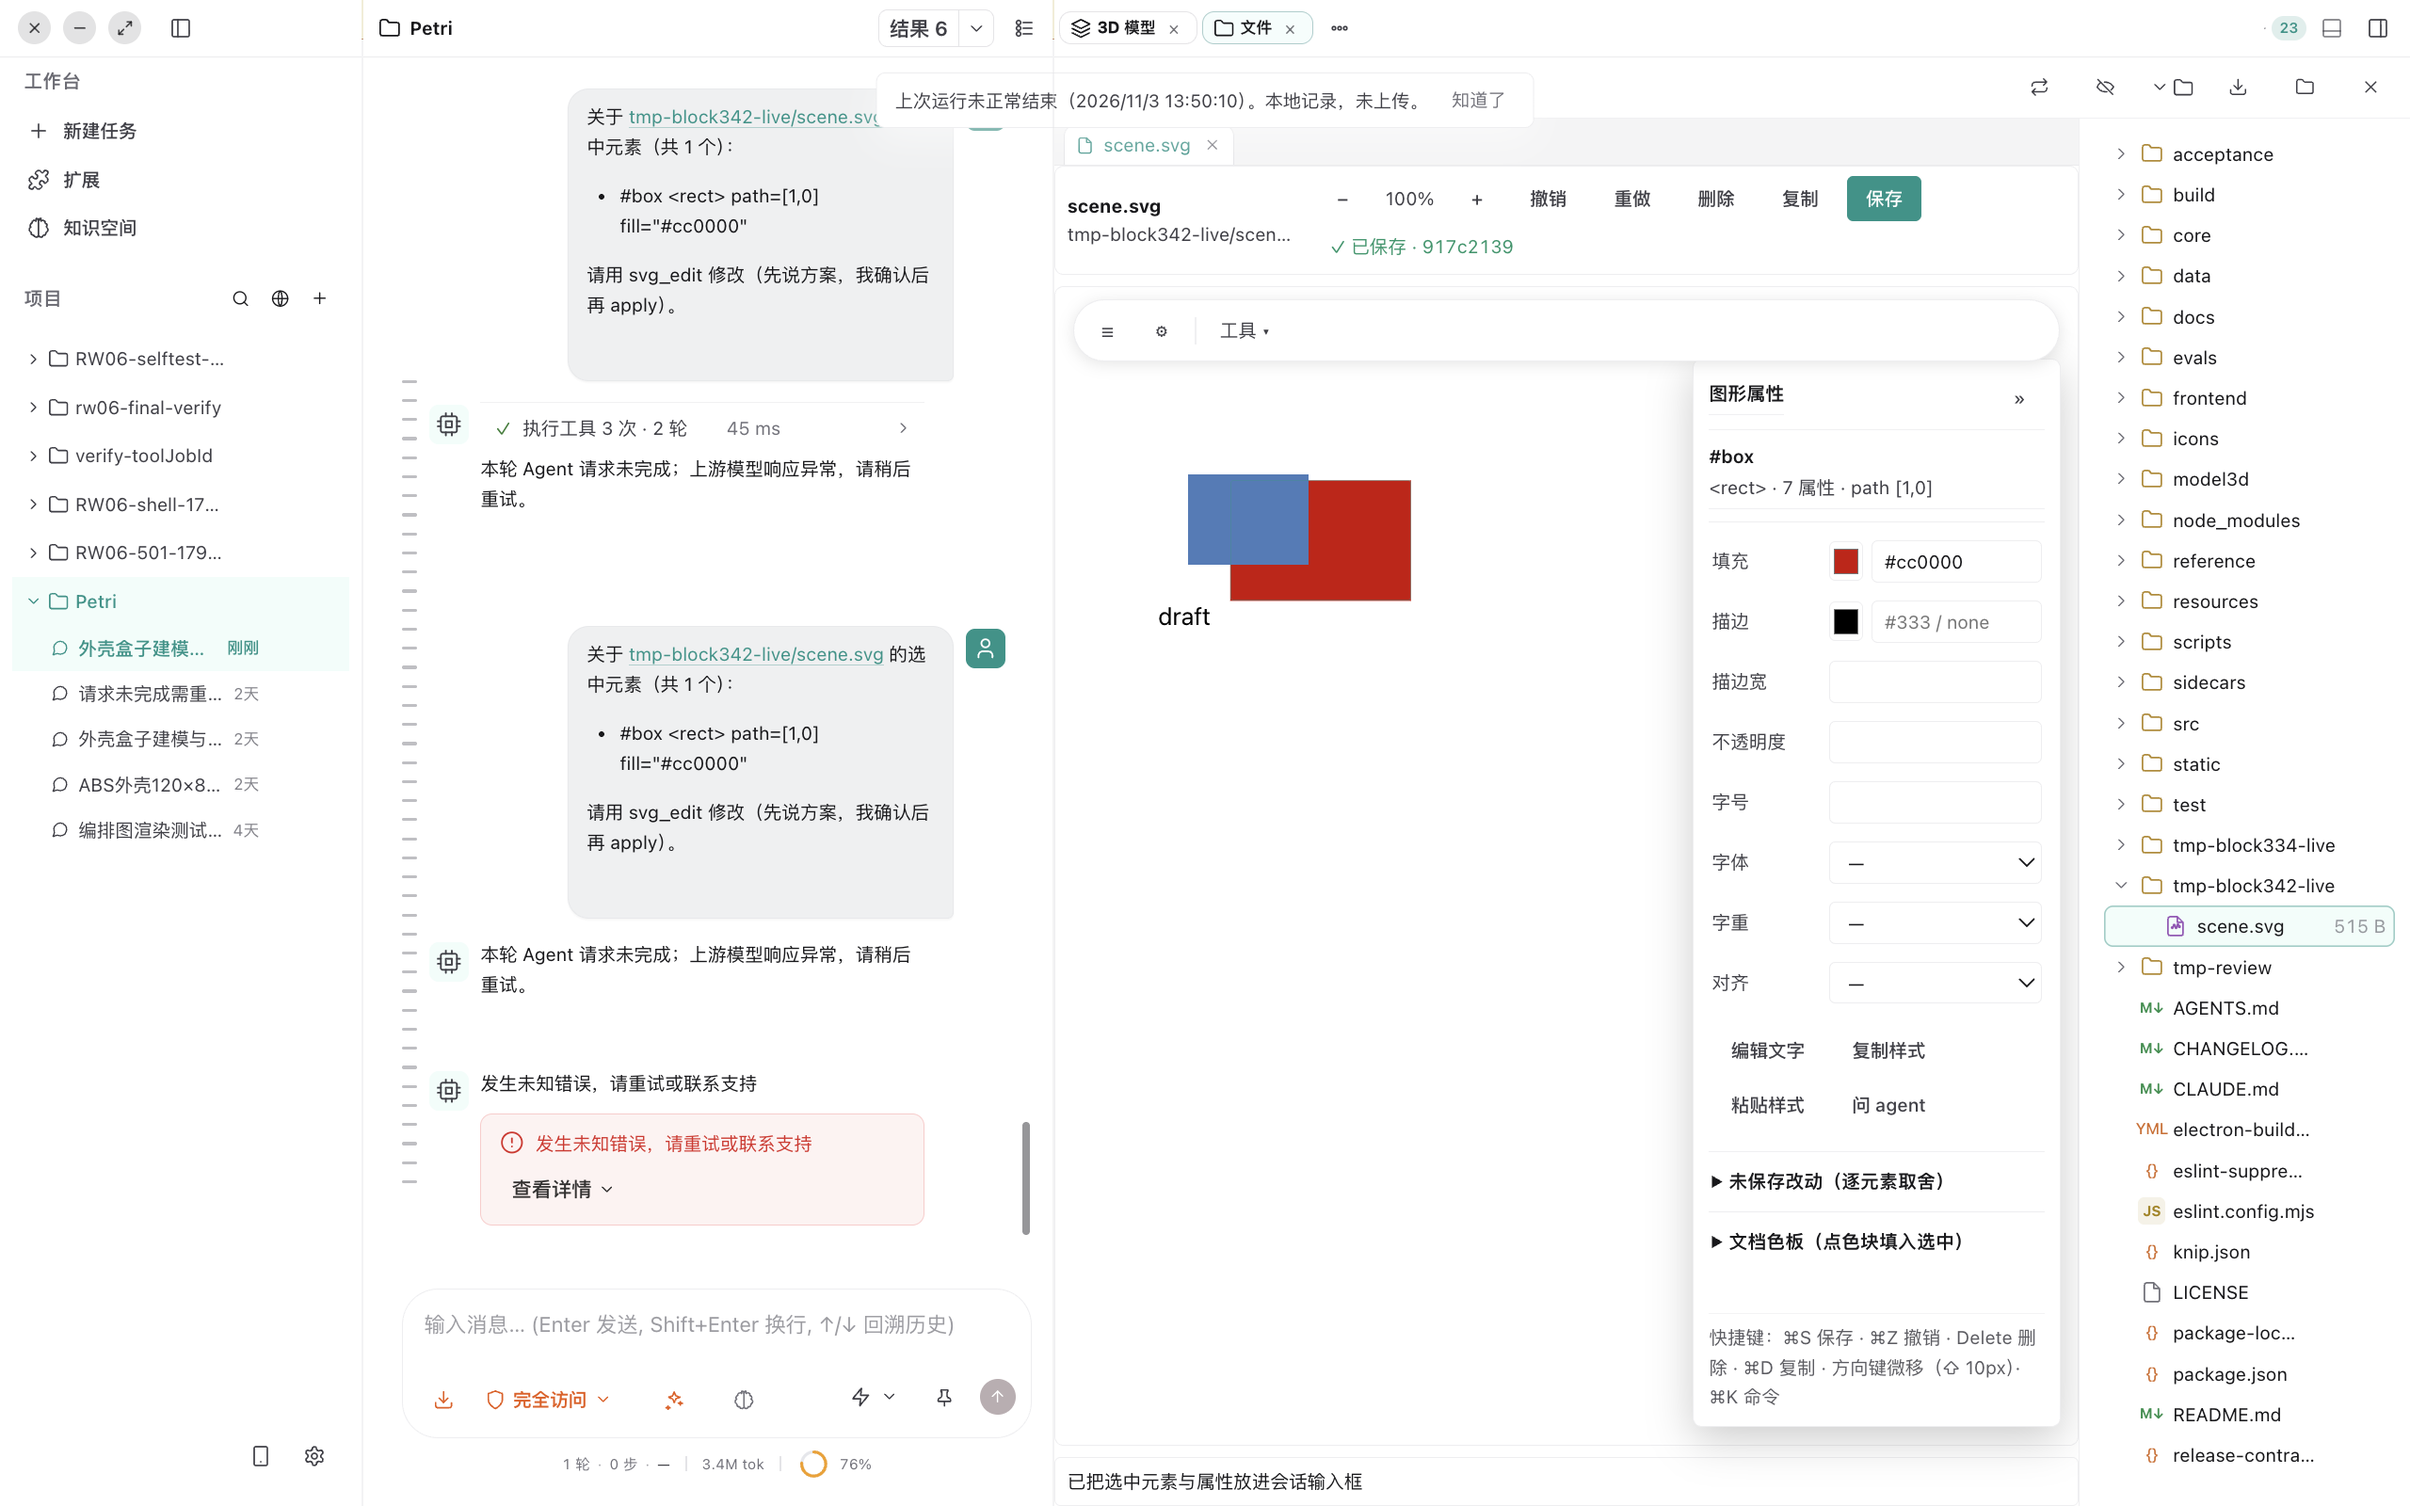
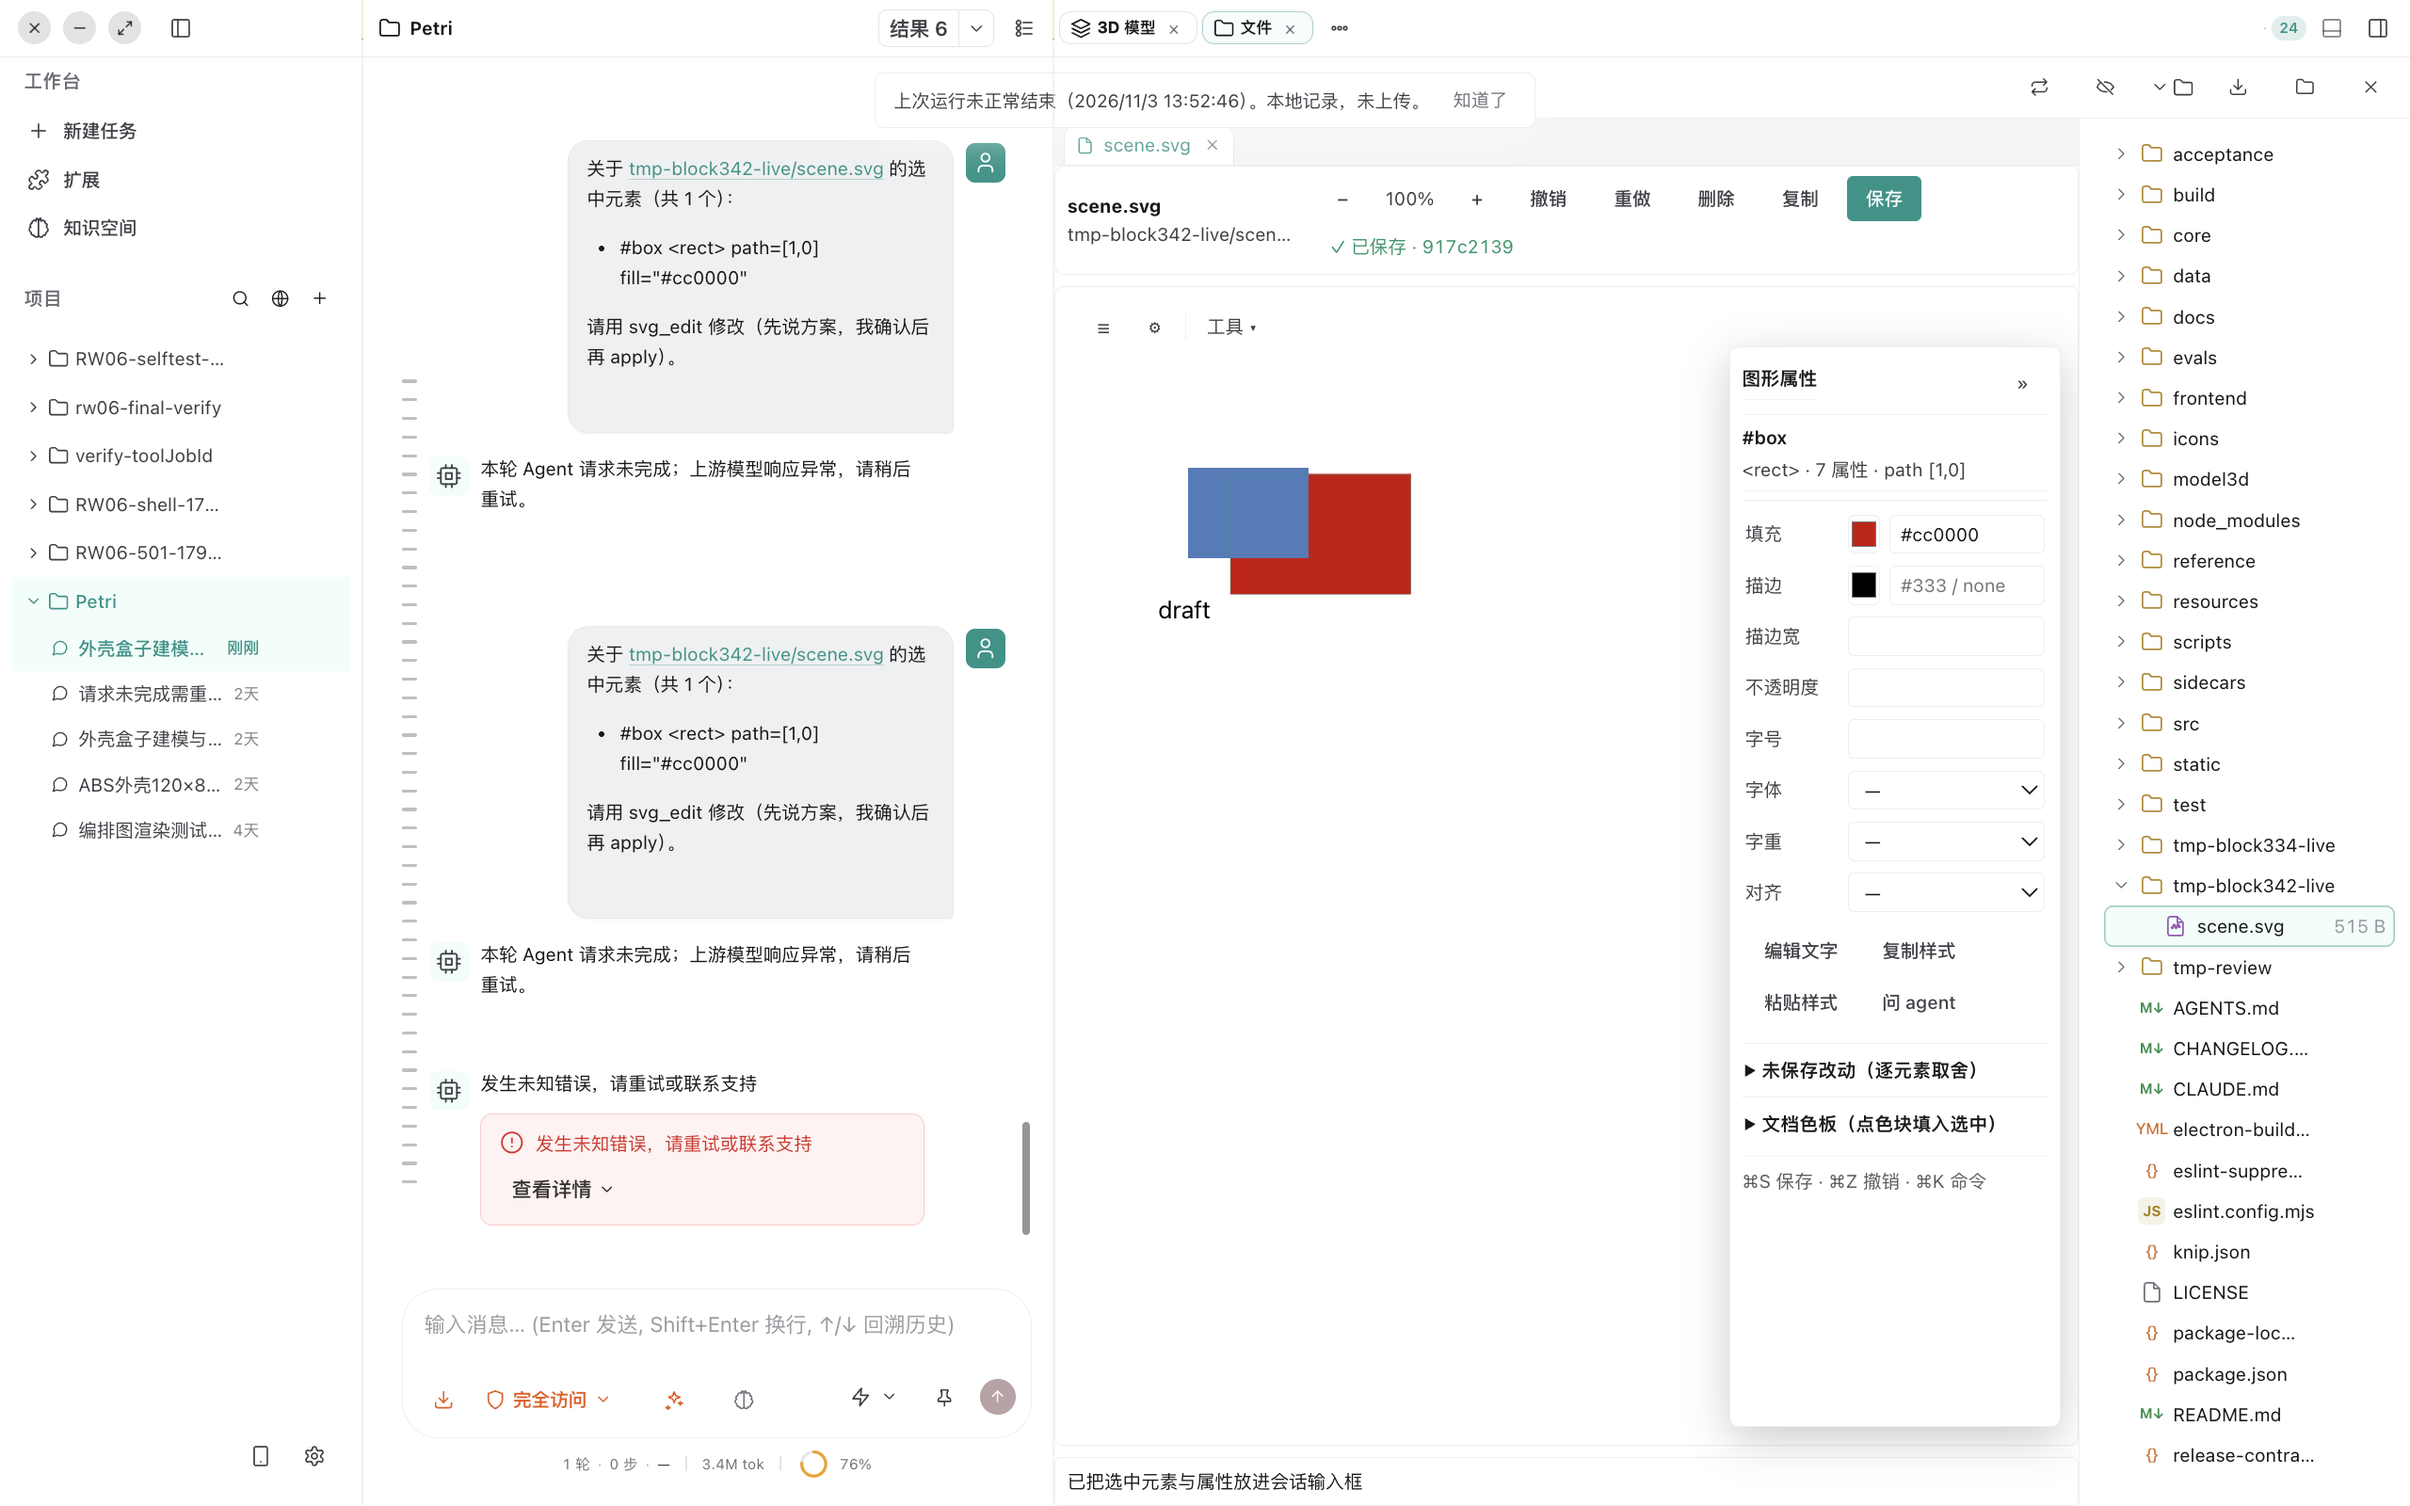
style(block-342): 顶栏/右栏减重 —— 去白胶囊底、右栏收窄、工具默认收起、快捷键收一行
顶栏不再横跨全宽的白胶囊（透明底，仅 hover 显出轻底），只保留 ☰ ⚙ | 工具 ▾

右栏 244→220px、padding 8、控件 min-height 26、标签列 60px；色板/未保存改动默认收起（details）

快捷键文案三行→一行；工具组默认收起（sections.tools 初值 false，实机 V2d 断言 toolGroupOpen=0）

theme 17/17 + 契约 26/26 + 实机 28/28

diff --git a/frontend/src/components/svg-editor/SvgEditorViewer.module.css b/frontend/src/components/svg-editor/SvgEditorViewer.module.css
@@ -1117,3 +1117,61 @@
   grid-template-columns: minmax(0, 1fr);
   grid-template-rows: minmax(0, 1fr);
 }
+
+/* 顶栏/右栏减重（用户反馈「喧宾夺主」）：顶栏不再横跨全宽的白胶囊；
+   右栏收窄、留白收紧；工具组默认收起（sections.tools 初值 false）。 */
+.toolbar {
+  left: 12px;
+  right: auto;
+  width: max-content;
+  padding: 2px 4px;
+  border: none;
+  background: transparent;
+  box-shadow: none;
+  gap: 2px;
+}
+
+.toolbar:hover {
+  background: color-mix(in srgb, var(--petri-bg-surface) 82%, transparent);
+  border-radius: var(--petri-radius-pill);
+}
+
+.layers,
+.inspector {
+  width: 220px;
+  padding: 8px;
+  gap: 6px;
+  top: 40px;
+}
+
+.props,
+.paletteBlock,
+.changeBlock {
+  padding: 8px 2px 2px;
+  gap: 6px;
+}
+
+.field {
+  grid-template-columns: 60px minmax(0, 1fr);
+  gap: 8px;
+  padding: 1px 0;
+}
+
+.field input:not([type='color']),
+.field select {
+  min-height: 26px;
+  padding: 3px 7px;
+}
+
+.rowActions {
+  padding: 4px 0;
+  gap: 4px;
+}
+
+.hint {
+  margin-top: 4px;
+}
+
+.stage {
+  padding: 44px 12px 12px;
+}

diff --git a/frontend/src/components/svg-editor/SvgEditorViewer.tsx b/frontend/src/components/svg-editor/SvgEditorViewer.tsx
@@ -972,7 +972,7 @@ export function SvgEditorViewer({ projectId, filePath, name, active = true }: Sv
               </div>
             </details>
             <div className={styles.hint}>
-              快捷键：⌘S 保存 · ⌘Z 撤销 · Delete 删除 · ⌘D 复制 · 方向键微移（⇧ 10px）· ⌘K 命令
+              ⌘S 保存 · ⌘Z 撤销 · ⌘K 命令
             </div>
           </aside>
         </div>
